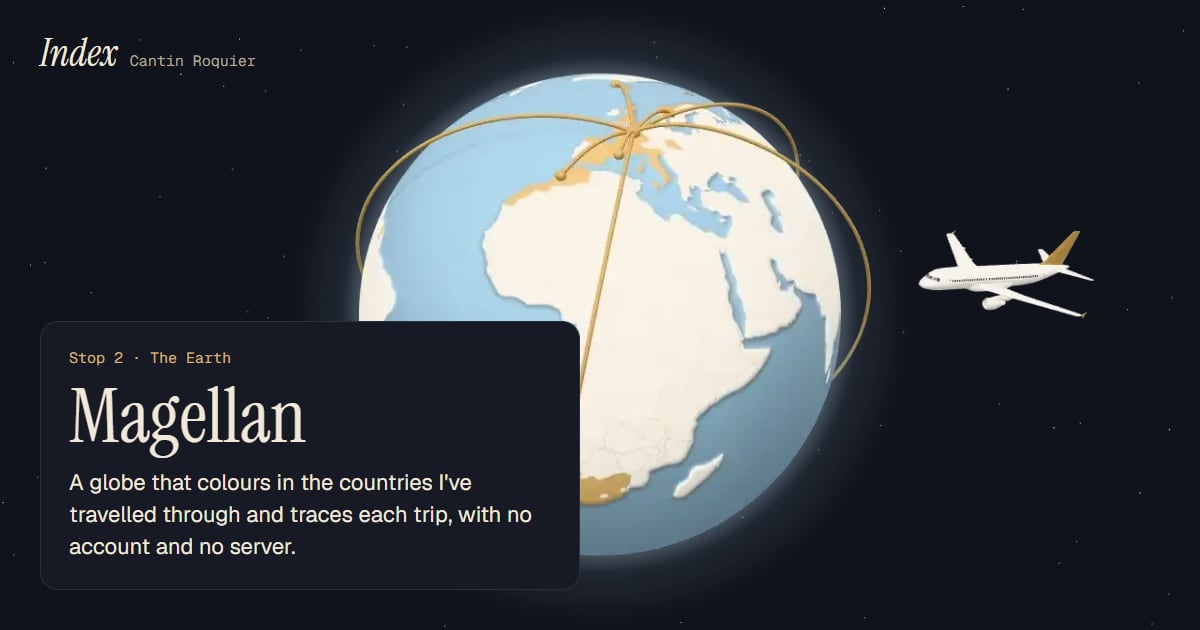
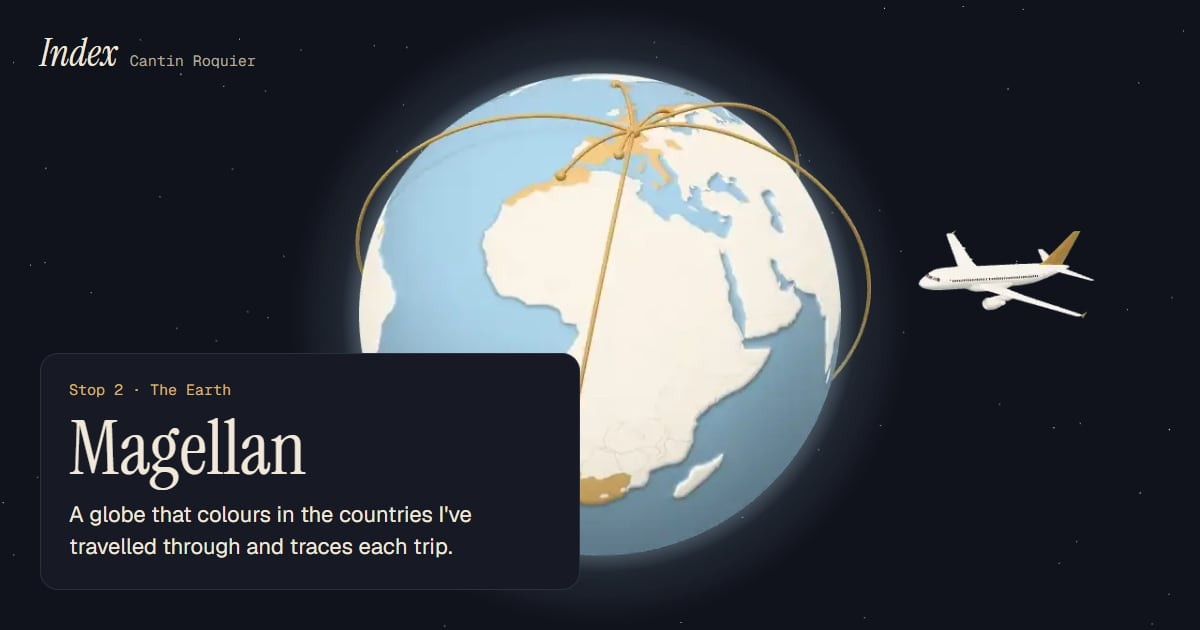
fix(portfolio): Magellan n'est plus « sans compte ni serveur », et « Les projets » n'a plus de cartes partout
Magellan garde mes voyages sur un serveur depuis la connexion : la mention disparaît de l'accroche, de la fiche
et de la liste des projets. L'intro de « Les projets » parlait de cartes, alors que le grand écran montre une
liste. Les aperçus de partage de Magellan, gym-picker et INDEX reprennent leurs textes actuels.

Changed region(s): [[0.0617, 0.5429, 0.4625, 0.9048], [0.2775, 0.4825, 0.4933, 0.573]]

diff --git a/apps/portfolio/src/data/carnet.ts b/apps/portfolio/src/data/carnet.ts
@@ -69,9 +69,9 @@ export interface CarnetStrings {
 export const CARNET: Record<Lang, CarnetStrings> = {
   fr: {
     pageTitle: "Le carnet de voyage",
-    description: `Les ${inWords("fr", projects.length)} projets de Cantin Roquier, escale par escale : chaque carte ouvre la fiche du projet, et chaque app s'ouvre d'ici.`,
+    description: `Les ${inWords("fr", projects.length)} projets de Cantin Roquier, escale par escale : chaque projet mène à sa fiche, et chaque app s'ouvre d'ici.`,
     title: "Le carnet de <em>voyage</em>",
-    intro: `Les ${inWords("fr", projects.length)} projets, escale par escale : chaque carte ouvre sa fiche.`,
+    intro: `Les ${inWords("fr", projects.length)} projets, escale par escale : chacun mène à sa fiche.`,
     revisit: "Revoir l'escale →",
     revisitAria: "Revoir l'escale {n} : {place}",
     listAria: "Les escales du voyage",
@@ -98,9 +98,9 @@ export const CARNET: Record<Lang, CarnetStrings> = {
   },
   en: {
     pageTitle: "The travel journal",
-    description: `Cantin Roquier's ${inWords("en", projects.length)} projects, stop by stop: each card opens the project page, and every app opens from here.`,
+    description: `Cantin Roquier's ${inWords("en", projects.length)} projects, stop by stop: each project leads to its page, and every app opens from here.`,
     title: "The travel <em>journal</em>",
-    intro: `All ${inWords("en", projects.length)} projects, stop by stop: each card opens its page.`,
+    intro: `All ${inWords("en", projects.length)} projects, stop by stop: each one leads to its page.`,
     revisit: "Back to the stop →",
     revisitAria: "Back to stop {n}: {place}",
     listAria: "The journey's stops",

diff --git a/apps/portfolio/src/data/voyage.ts b/apps/portfolio/src/data/voyage.ts
@@ -71,7 +71,7 @@ export const STOP_TEXTS: Record<Lang, Record<string, StopText>> = {
       place: "La Terre",
       alt: "La Terre tourne : les pays de la démo de Magellan en laiton, les voyages tracés en arcs depuis Paris ; à côté, un avion de ligne attend, incliné vers elle.",
       kind: "App web et mobile · 2026 · En ligne",
-      pitch: "Un globe qui colorie les pays que j'ai traversés et trace chaque voyage, sans compte ni serveur.",
+      pitch: "Un globe qui colorie les pays que j'ai traversés et trace chaque voyage.",
       cta: "Prendre l'avion",
     },
     hublot: {
@@ -146,7 +146,7 @@ export const STOP_TEXTS: Record<Lang, Record<string, StopText>> = {
       place: "The Earth",
       alt: "The Earth turns: the countries of the Magellan demo in brass, trips drawn as arcs from Paris; nearby, an airliner waits, banking towards it.",
       kind: "Web and mobile app · 2026 · Live",
-      pitch: "A globe that colours in the countries I've travelled through and traces each trip, with no account and no server.",
+      pitch: "A globe that colours in the countries I've travelled through and traces each trip.",
       cta: "Board the plane",
     },
     hublot: {

diff --git a/packages/projects/src/projects.ts b/packages/projects/src/projects.ts
@@ -108,7 +108,7 @@ export const PROJECTS = [
     app: "magellan",
     host: "Cloudflare Workers",
     pitch: {
-      fr: "Un globe 3D qui colorie les pays visités et trace chaque voyage étape par étape, sans compte ni serveur.",
+      fr: "Un globe 3D qui colorie les pays visités et trace chaque voyage étape par étape.",
     },
     stack: ["Expo", "React Native", "TypeScript", "Three.js", "IndexedDB"],
     links: { demo: MAGELLAN_URL, code: code("magellan") },
